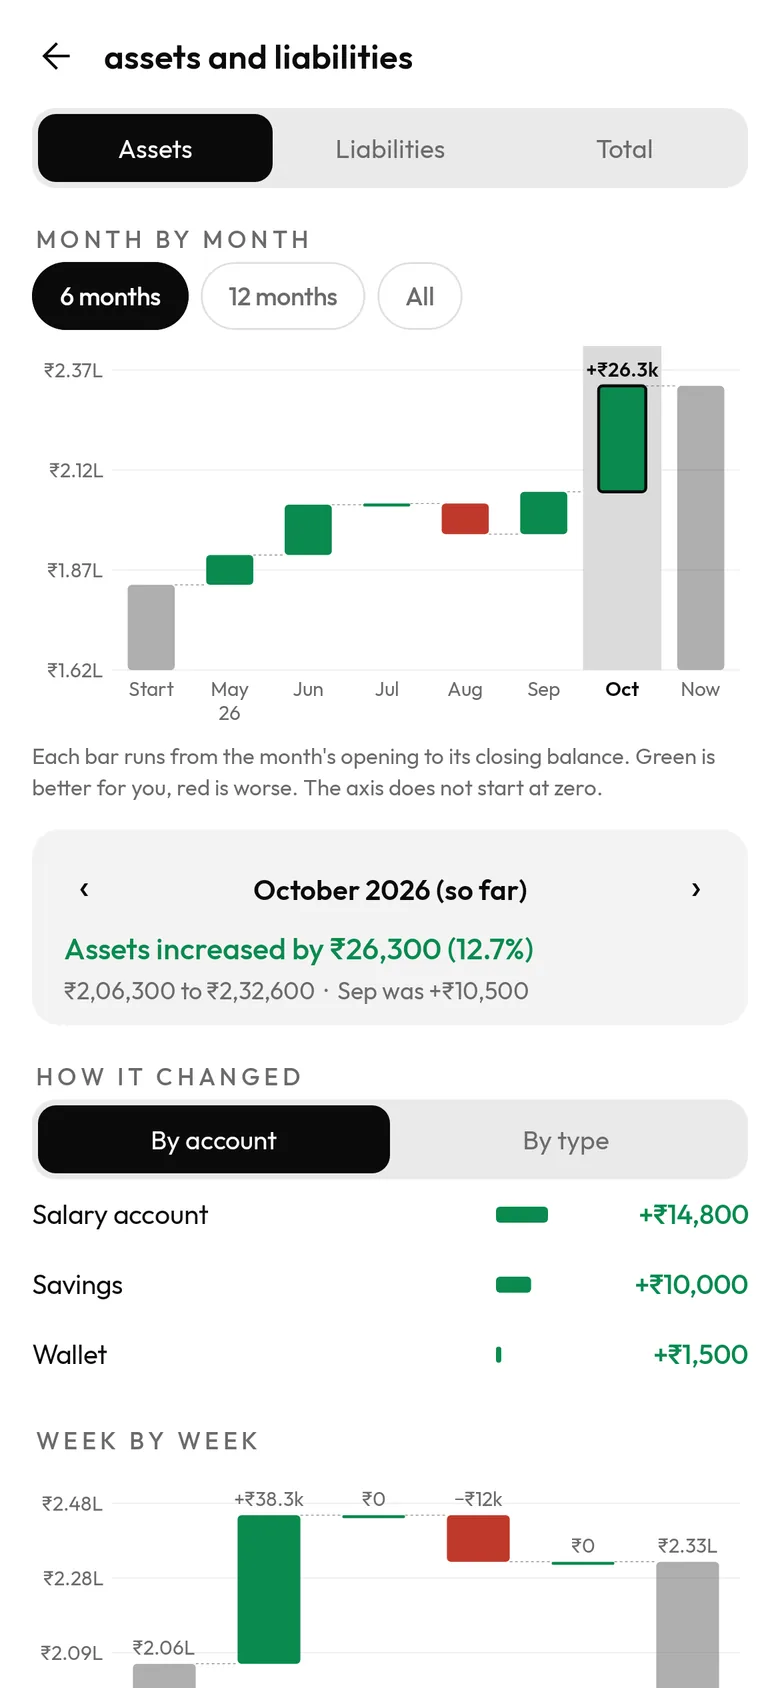
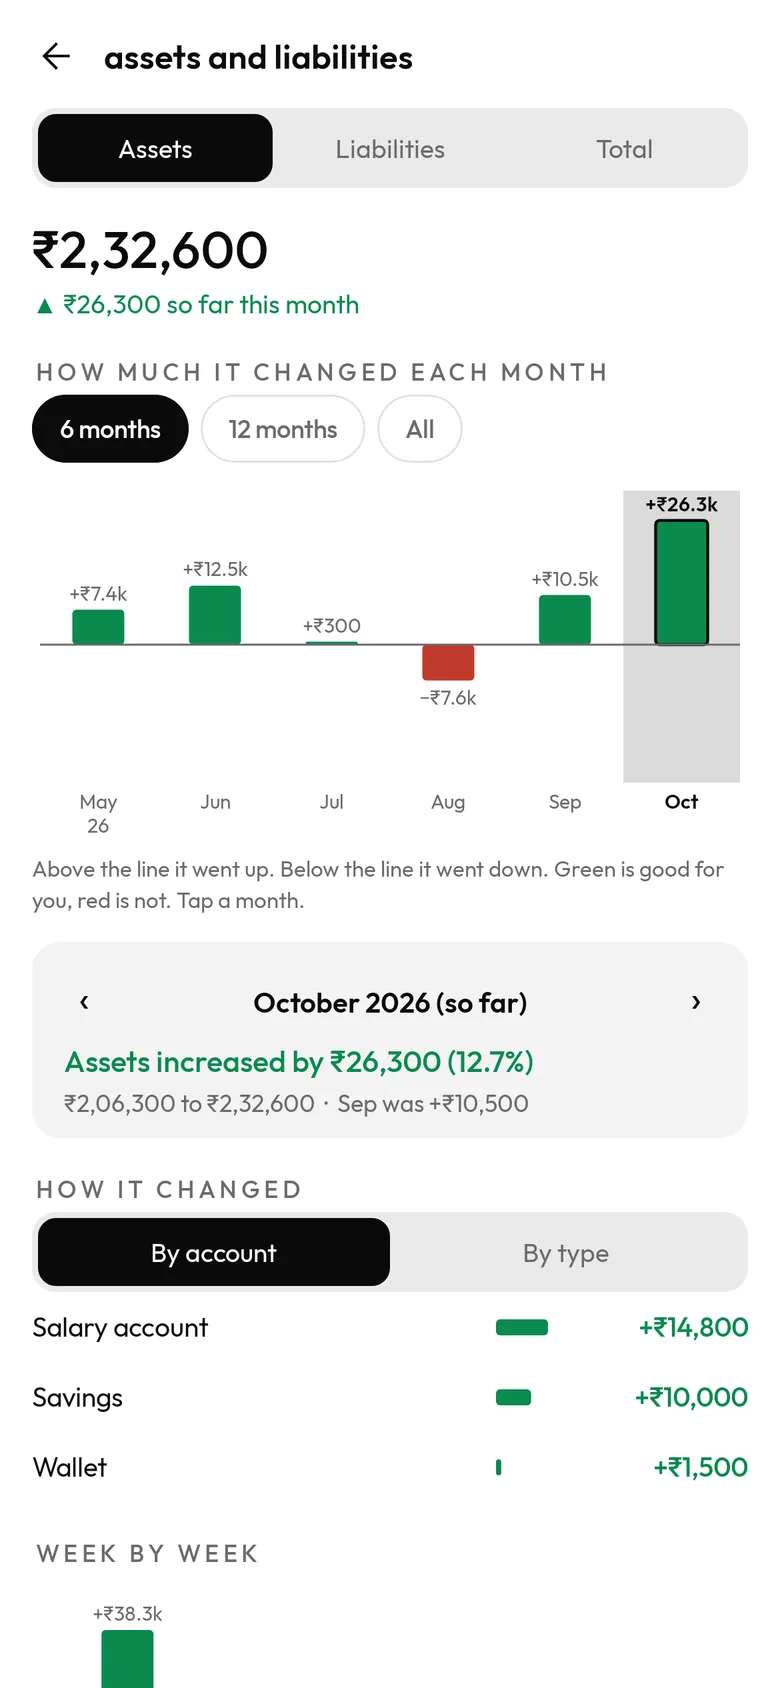
Assets and liabilities on the site: the chart is bars for how much each month changed (new screenshot, card text, FAQ)

diff --git a/index.html b/index.html
@@ -40,7 +40,7 @@
 {"@type":"Question","name":"How do I open the computer view?","acceptedAnswer":{"@type":"Answer","text":"Start it in the app, open the address it shows in a browser on the same Wi-Fi, then scan the QR code on the page with the app or type the 6-digit code."}},
 {"@type":"Question","name":"What does Premium add?","acceptedAnswer":{"@type":"Answer","text":"No ads, unlimited accounts and budgets, Add several, Drive backup, the computer view, older months of Assets and liabilities and the Blue, Green and Purple styles."}},
 {"@type":"Question","name":"Can the app remind me about bills and EMIs?","acceptedAnswer":{"@type":"Answer","text":"Yes. The bell on the Trans tab lists card bills, loan EMIs, repeats and budgets that need a look, and checks whether your accounts can cover the payments coming in the next few days. In Reminders by account you switch on the reminders you want for each account; they all start off. Mark paid only records a transfer: the app never moves money or opens your bank app."}},
-{"@type":"Question","name":"Can I see how my assets and liabilities changed month by month?","acceptedAnswer":{"@type":"Answer","text":"Yes. Tap the Assets, Liabilities or Total card on the Accounts tab. Every month is a bar from its opening to its closing balance, green when it is better for you and red when it is worse. Pick a month to see whether it went up or down, what moved it by account or by type (income, expenses, transfers, card bills and EMIs), and its four weeks. The computer page has the same page. The last six months are free; older months are part of Premium."}}]}
+{"@type":"Question","name":"Can I see how my assets and liabilities changed month by month?","acceptedAnswer":{"@type":"Answer","text":"Yes. Tap the Assets, Liabilities or Total card on the Accounts tab. Each month is a bar for how much it changed: above the line it went up, below it went down, green when that is good for you and red when it is not. Pick a month to see what moved it by account or by type (income, expenses, transfers, card bills and EMIs), and its four weeks. The computer page has the same page. The last six months are free; older months are part of Premium."}}]}
 </script>
 <style>
 @font-face{font-family:'Outfit';font-weight:300;font-style:normal;font-display:swap;src:url(fonts/outfit-300.woff2) format('woff2')}
@@ -371,7 +371,7 @@ footer .data{max-width:1240px;margin:0 auto 18px;font-size:13px;line-height:1.6;
 <li><a href="#screens" class="card" data-i="13"><span class="ic"><svg class="line" width="24" height="24" viewBox="0 0 24 24" fill="none" stroke="currentColor" stroke-width="1.5" aria-hidden="true"><circle cx="11" cy="11" r="7"/><path d="M20 20l-4-4"/></svg><svg class="fill" width="24" height="24" viewBox="0 0 24 24" fill="currentColor" stroke="none" aria-hidden="true"><circle cx="11" cy="11" r="6.2" fill="none" stroke="currentColor" stroke-width="2.8"/><path d="M15.5 15.5L21 21" fill="none" stroke="currentColor" stroke-width="3" stroke-linecap="round"/></svg></span><span class="t">Search and filters</span><span class="d">Search notes and descriptions, with results under day headings and their notes; filter by type, account, category, amount and period.</span></a></li>
 <li><a href="#screens" class="card" data-i="14"><span class="ic"><svg class="line" width="24" height="24" viewBox="0 0 24 24" fill="none" stroke="currentColor" stroke-width="1.5" aria-hidden="true"><path d="M12 3l8 3v6c0 4.5-3.4 8.3-8 9-4.6-.7-8-4.5-8-9V6z"/><path d="M9 12l2 2 4-4"/></svg><svg class="fill" width="24" height="24" viewBox="0 0 24 24" fill="currentColor" stroke="none" aria-hidden="true"><path d="M12 2.5l8.5 3.2v6.1c0 4.8-3.5 8.5-8.5 9.7-5-1.2-8.5-4.9-8.5-9.7V5.7z"/><path d="M8.6 12l2.4 2.4 4.4-4.6" stroke="#fff" stroke-width="2" stroke-linecap="round" stroke-linejoin="round" fill="none"/></svg></span><span class="t">Backup and privacy</span><span class="d">Backup file, your own Google Drive, Excel import - your data stays yours.</span></a></li>
 <li><a href="#screens" class="card" data-i="15"><span class="ic"><svg class="line" width="24" height="24" viewBox="0 0 24 24" fill="none" stroke="currentColor" stroke-width="1.5" aria-hidden="true"><path d="M6 17V11a6 6 0 0112 0v6l1.5 2h-15z"/><path d="M10 21h4"/></svg><svg class="fill" width="24" height="24" viewBox="0 0 24 24" fill="currentColor" stroke="none" aria-hidden="true"><path d="M5.5 18.5L7 16.5V11a5 5 0 0110 0v5.5l1.5 2z"/><path d="M9.5 20.5h5a2.5 2.5 0 01-5 0z"/></svg></span><span class="t">Reminders</span><span class="d">A bell on the Trans tab lists what needs a look: card bills, overdue bills, loan EMIs, budgets and accounts that may run short for the payments coming. Switch on only the reminders you want, account by account.</span></a></li>
-<li><a href="#screens" class="card" data-i="16"><span class="ic"><svg class="line" width="24" height="24" viewBox="0 0 24 24" fill="none" stroke="currentColor" stroke-width="1.5" aria-hidden="true"><path d="M4 20h16"/><rect x="5" y="12" width="3.5" height="5" rx=".6"/><rect x="10.25" y="7" width="3.5" height="7" rx=".6"/><rect x="15.5" y="4" width="3.5" height="6" rx=".6"/></svg><svg class="fill" width="24" height="24" viewBox="0 0 24 24" fill="currentColor" stroke="none" aria-hidden="true"><path d="M3.5 19.5h17V21h-17z"/><rect x="5" y="12" width="3.5" height="5.5" rx=".8"/><rect x="10.25" y="7" width="3.5" height="7.5" rx=".8"/><rect x="15.5" y="4" width="3.5" height="6.5" rx=".8"/></svg></span><span class="t">Assets and liabilities</span><span class="d">Tap Assets, Liabilities or Total on the Accounts tab to see every month as a bar from its opening to its closing balance, whether it went up or down, and what moved it by account or by type. The last six months are free.</span></a></li>
+<li><a href="#screens" class="card" data-i="16"><span class="ic"><svg class="line" width="24" height="24" viewBox="0 0 24 24" fill="none" stroke="currentColor" stroke-width="1.5" aria-hidden="true"><path d="M4 20h16"/><rect x="5" y="12" width="3.5" height="5" rx=".6"/><rect x="10.25" y="7" width="3.5" height="7" rx=".6"/><rect x="15.5" y="4" width="3.5" height="6" rx=".6"/></svg><svg class="fill" width="24" height="24" viewBox="0 0 24 24" fill="currentColor" stroke="none" aria-hidden="true"><path d="M3.5 19.5h17V21h-17z"/><rect x="5" y="12" width="3.5" height="5.5" rx=".8"/><rect x="10.25" y="7" width="3.5" height="7.5" rx=".8"/><rect x="15.5" y="4" width="3.5" height="6.5" rx=".8"/></svg></span><span class="t">Assets and liabilities</span><span class="d">Tap Assets, Liabilities or Total on the Accounts tab to see how much each month changed: bars above the line went up, bars below went down. Pick a month to see why, by account or by type. The last six months are free.</span></a></li>
 </ul>
 </section>
 
@@ -398,7 +398,7 @@ footer .data{max-width:1240px;margin:0 auto 18px;font-size:13px;line-height:1.6;
 <div class="slide"><div class="phone"><img src="screens/09-search.webp" width="260" height="564" alt="Search: notes and filters" loading="lazy"></div></div>
 <div class="slide"><div class="phone"><img src="screens/10-backup.webp" width="260" height="564" alt="Backup and data" loading="lazy"></div></div>
 <div class="slide"><div class="phone"><img src="screens/19-reminders.webp" width="260" height="564" alt="Reminders: a card bill due soon, an overdue bill and an account that may run short, each with Mark paid, Snooze and Dismiss" loading="lazy"></div></div>
-<div class="slide"><div class="phone"><img src="screens/20-assets-liabilities.webp" width="260" height="564" alt="Assets and liabilities: every month as a bar from its opening to its closing balance, October up by a made-up amount, with the accounts that moved it" loading="lazy"></div></div>
+<div class="slide"><div class="phone"><img src="screens/20-assets-liabilities.webp" width="260" height="564" alt="Assets and liabilities: the balance, a bar for how much each month changed, and the accounts that moved this month (made-up numbers)" loading="lazy"></div></div>
 </div>
 <div class="ctrl">
 <button type="button" class="arrow btn" id="prev" aria-label="Previous screen"><svg width="22" height="22" viewBox="0 0 24 24" fill="none" stroke="currentColor" stroke-width="2" stroke-linecap="round" stroke-linejoin="round" aria-hidden="true"><path d="M15 5l-7 7 7 7"/></svg></button>
@@ -471,7 +471,7 @@ footer .data{max-width:1240px;margin:0 auto 18px;font-size:13px;line-height:1.6;
 <div class="q"><button type="button" aria-expanded="false" aria-controls="a2" id="q2"><span>How do I open the computer view?</span><span class="plus" aria-hidden="true">+</span></button><div class="a" id="a2" role="region" aria-labelledby="q2" hidden>Start it in the app, open the address it shows in a browser on the same Wi-Fi, then scan the QR code on the page with the app or type the 6-digit code.</div></div>
 <div class="q"><button type="button" aria-expanded="false" aria-controls="a3" id="q3"><span>What does Premium add?</span><span class="plus" aria-hidden="true">+</span></button><div class="a" id="a3" role="region" aria-labelledby="q3" hidden>No ads, unlimited accounts and budgets, Add several, Drive backup, the computer view, older months of Assets and liabilities and the Blue, Green and Purple styles.</div></div>
 <div class="q"><button type="button" aria-expanded="false" aria-controls="a4" id="q4"><span>Can the app remind me about bills and EMIs?</span><span class="plus" aria-hidden="true">+</span></button><div class="a" id="a4" role="region" aria-labelledby="q4" hidden>Yes. The bell on the Trans tab lists card bills, loan EMIs, repeats and budgets that need a look, and checks whether your accounts can cover the payments coming in the next few days. In Reminders by account you switch on the reminders you want for each account; they all start off. Mark paid only records a transfer: the app never moves money or opens your bank app.</div></div>
-<div class="q"><button type="button" aria-expanded="false" aria-controls="a5" id="q5"><span>Can I see how my assets and liabilities changed month by month?</span><span class="plus" aria-hidden="true">+</span></button><div class="a" id="a5" role="region" aria-labelledby="q5" hidden>Yes. Tap the Assets, Liabilities or Total card on the Accounts tab. Every month is a bar from its opening to its closing balance, green when it is better for you and red when it is worse. Pick a month to see whether it went up or down, what moved it by account or by type (income, expenses, transfers, card bills and EMIs), and its four weeks. The computer page has the same page. The last six months are free; older months are part of Premium.</div></div>
+<div class="q"><button type="button" aria-expanded="false" aria-controls="a5" id="q5"><span>Can I see how my assets and liabilities changed month by month?</span><span class="plus" aria-hidden="true">+</span></button><div class="a" id="a5" role="region" aria-labelledby="q5" hidden>Yes. Tap the Assets, Liabilities or Total card on the Accounts tab. Each month is a bar for how much it changed: above the line it went up, below it went down, green when that is good for you and red when it is not. Pick a month to see what moved it by account or by type (income, expenses, transfers, card bills and EMIs), and its four weeks. The computer page has the same page. The last six months are free; older months are part of Premium.</div></div>
 </div>
 </div>
 </section>

diff --git a/site.js b/site.js
@@ -24,7 +24,7 @@
     ['Search and filters', 'Search notes and descriptions, with results under day headings and their notes; filter by type, account, category, amount and period.'],
     ['Backup and privacy', 'Backup file, your own Google Drive, Excel import - your data stays yours.'],
     ['Reminders', 'A bell on the Trans tab lists what needs a look: card bills, overdue bills, loan EMIs, budgets and accounts that may run short for the payments coming. Switch on only the reminders you want, account by account.'],
-    ['Assets and liabilities', 'Tap Assets, Liabilities or Total on the Accounts tab to see every month as a bar from its opening to its closing balance, whether it went up or down, and what moved it by account or by type. The last six months are free.']
+    ['Assets and liabilities', 'Tap Assets, Liabilities or Total on the Accounts tab to see how much each month changed: bars above the line went up, bars below went down. Pick a month to see why, by account or by type. The last six months are free.']
   ];
   var N = FEAT.length;
   var slides = $$('#stage .slide');
